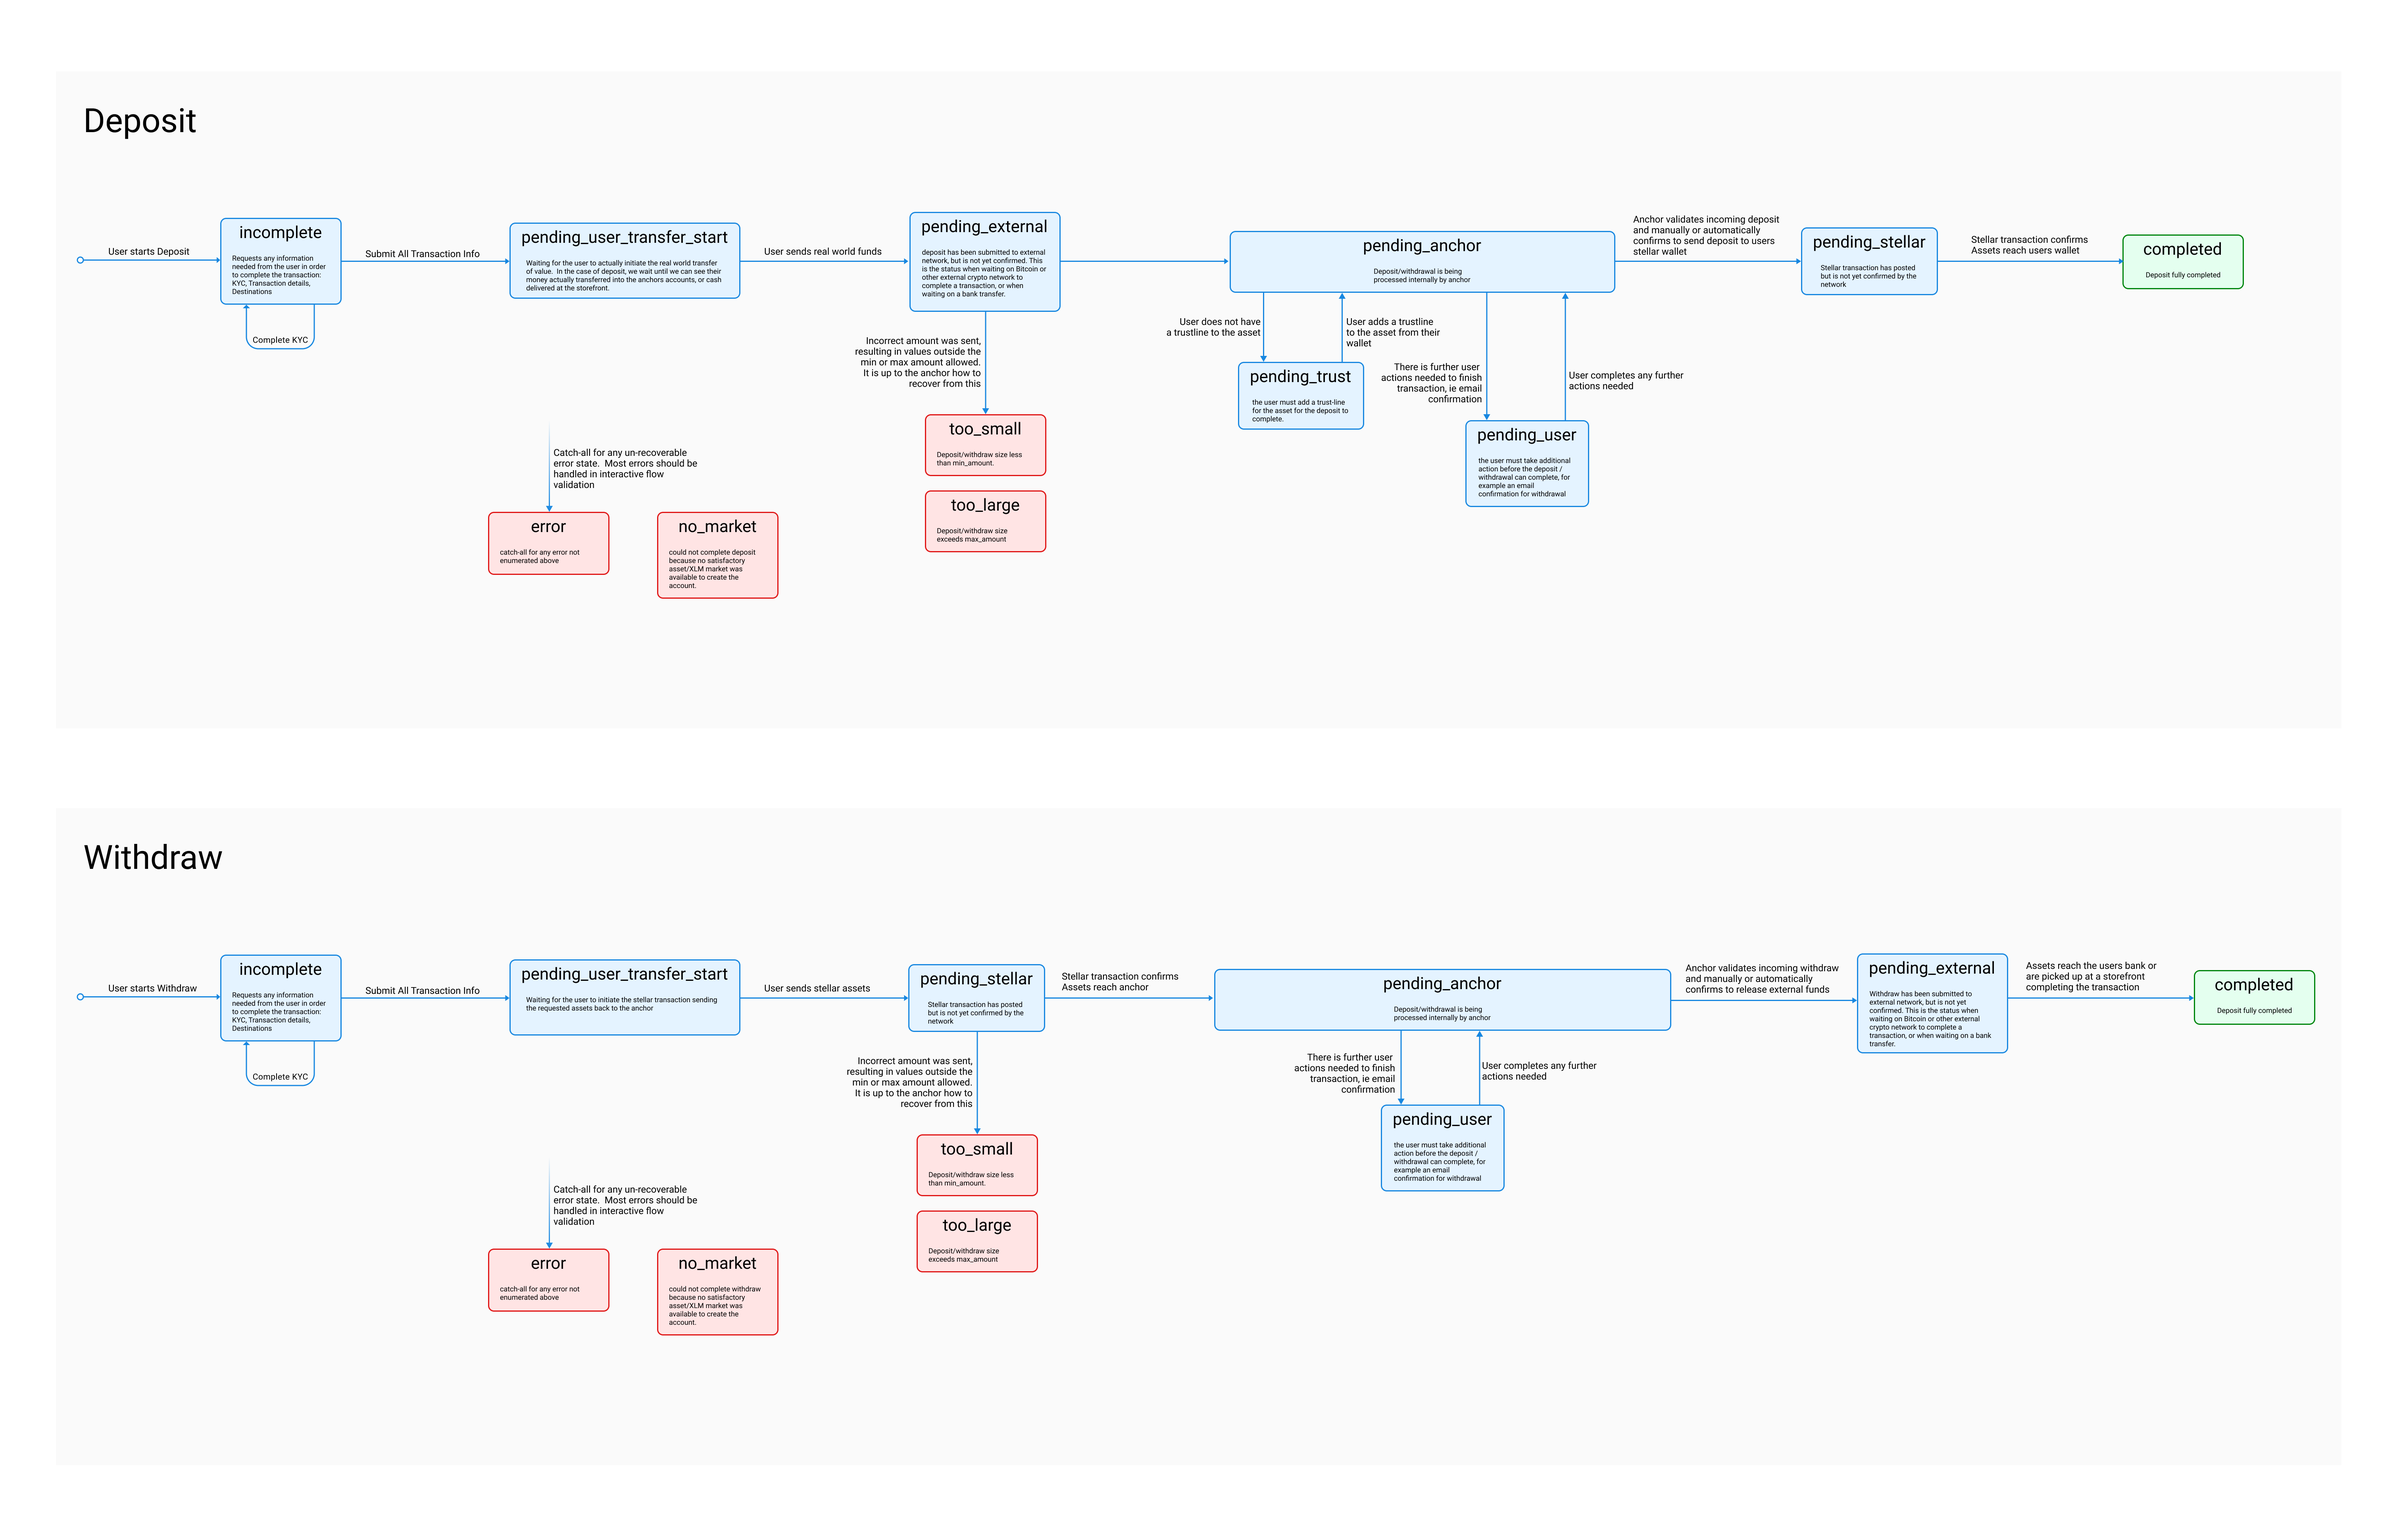
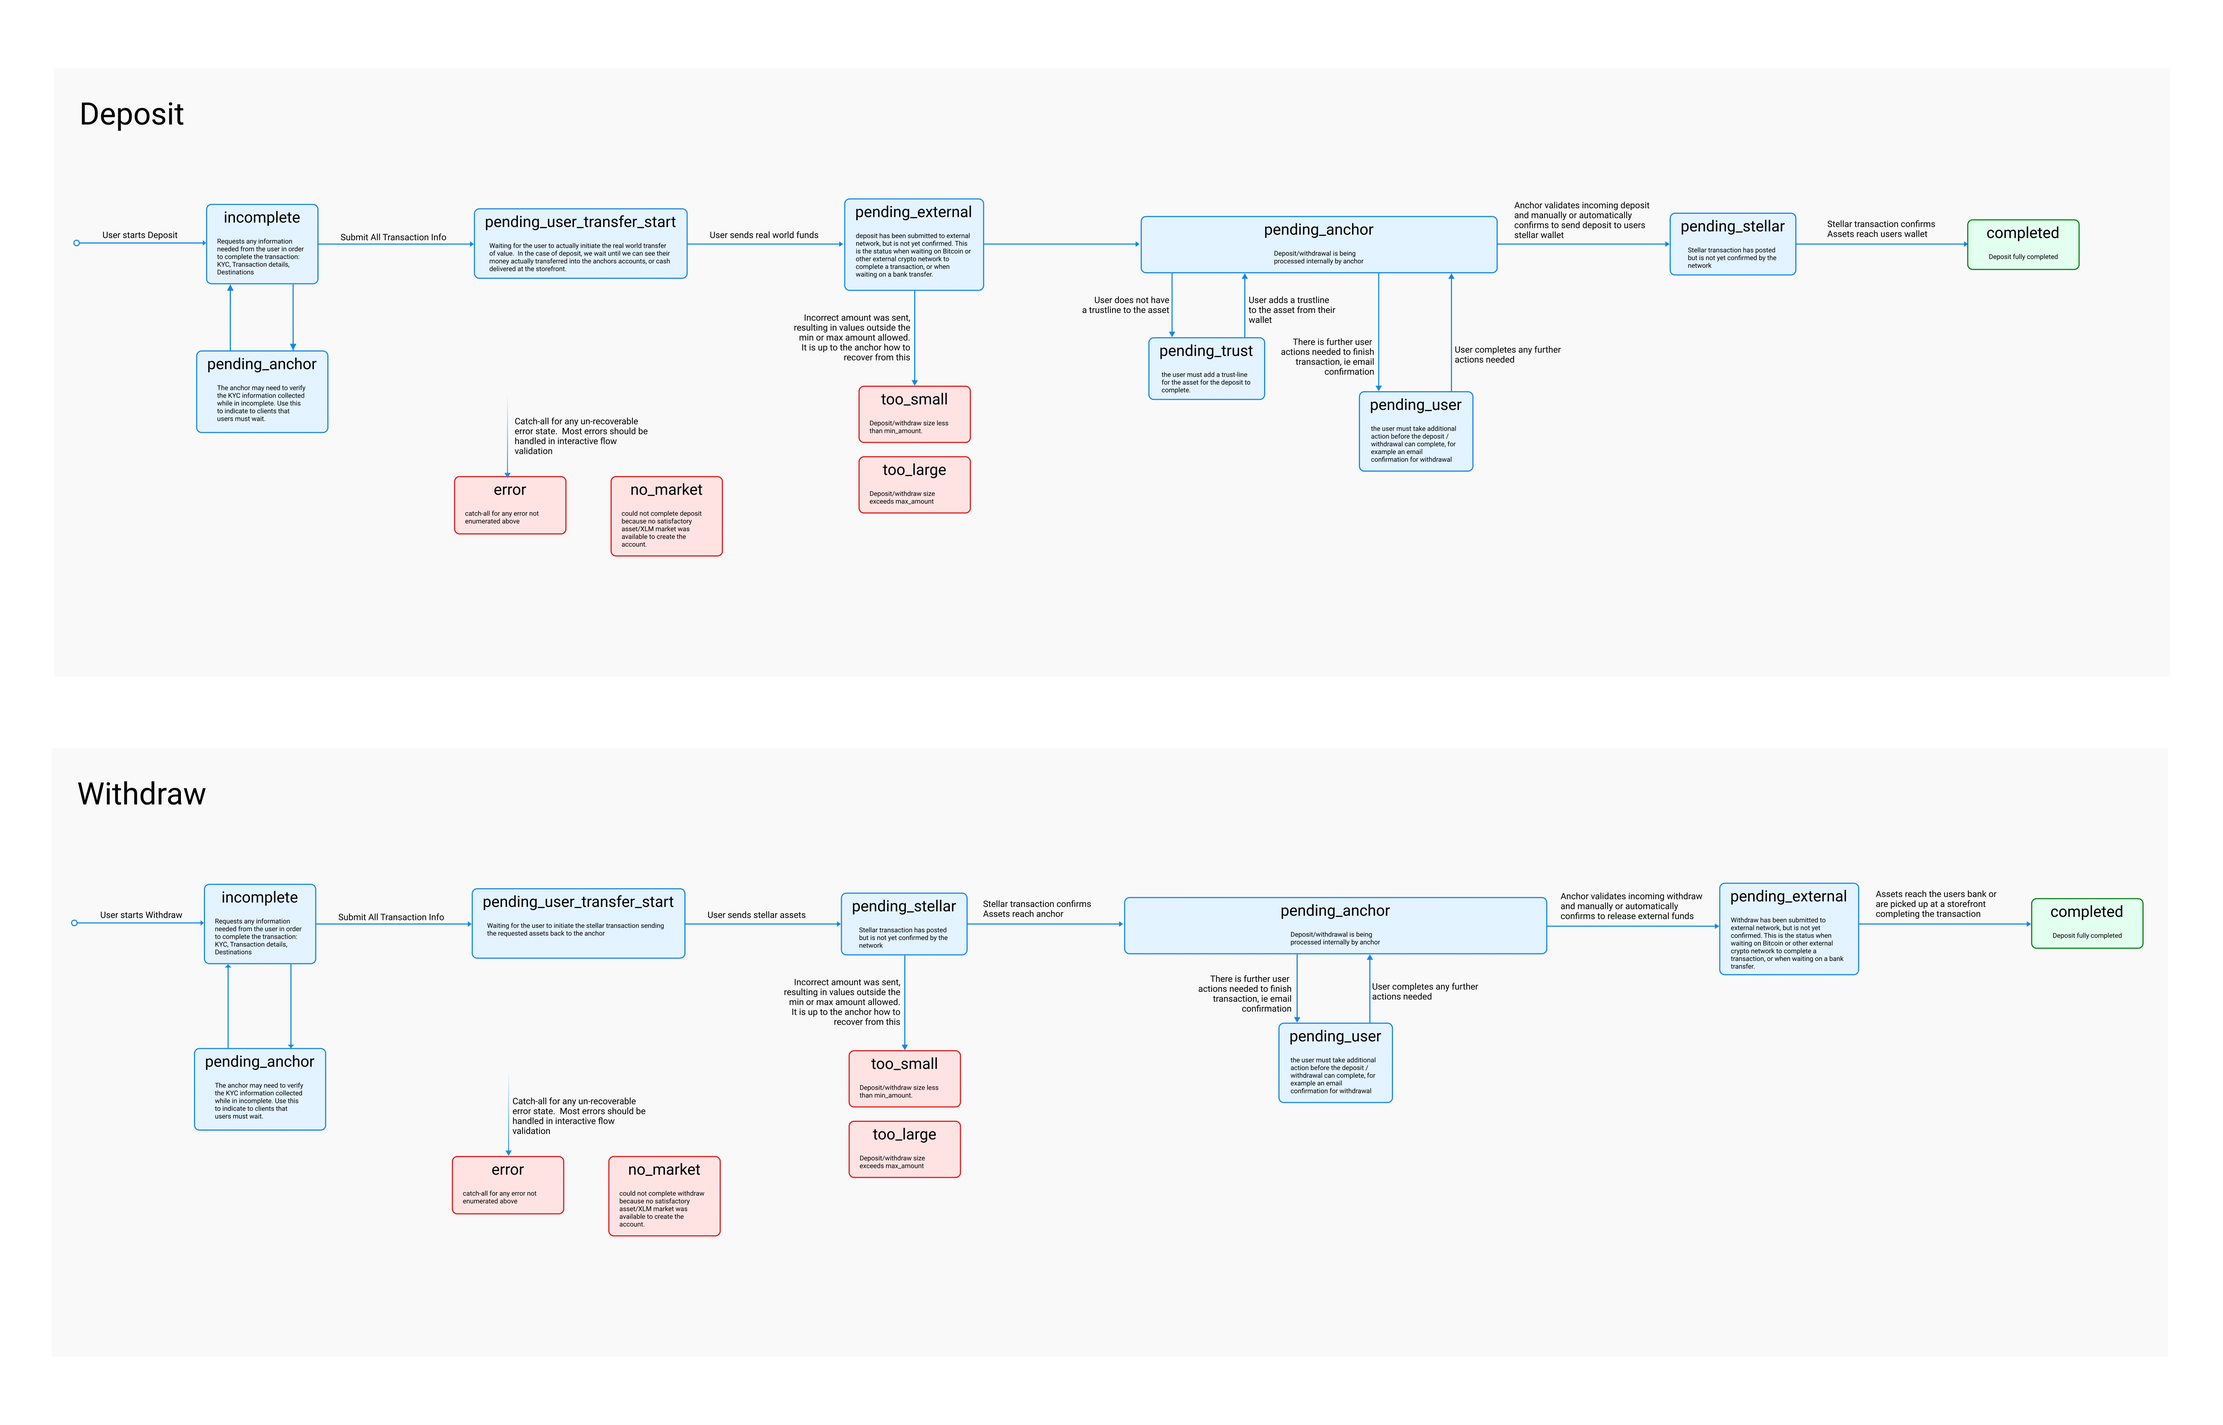
clarify pending_anchor status and update status diagrams

diff --git a/ecosystem/sep-0024.md b/ecosystem/sep-0024.md
@@ -585,7 +585,7 @@ Name | Type | Description
 * `incomplete` -- there is not yet enough information for this transaction to be initiated. Perhaps the user has not yet entered necessary info in an interactive flow.
 * `pending_user_transfer_start` -- the user has not yet initiated their transfer to the anchor. This is the necessary first step in any deposit or withdrawal flow.
 * `pending_external` -- deposit/withdrawal has been submitted to external network, but is not yet confirmed. This is the status when waiting on Bitcoin or other external crypto network to complete a transaction, or when waiting on a bank transfer.
-* `pending_anchor` -- deposit/withdrawal is being processed internally by anchor.
+* `pending_anchor` -- deposit/withdrawal is being processed internally by anchor. This can also be used when the anchor must verify KYC information prior to deposit/withdrawal.
 * `pending_stellar` -- deposit/withdrawal operation has been submitted to Stellar network, but is not yet confirmed.
 * `pending_trust` -- the user must add a trust-line for the asset for the deposit to complete.
 * `pending_user` -- the user must take additional action before the deposit / withdrawal can complete, for example an email or 2fa confirmation of a withdraw.
